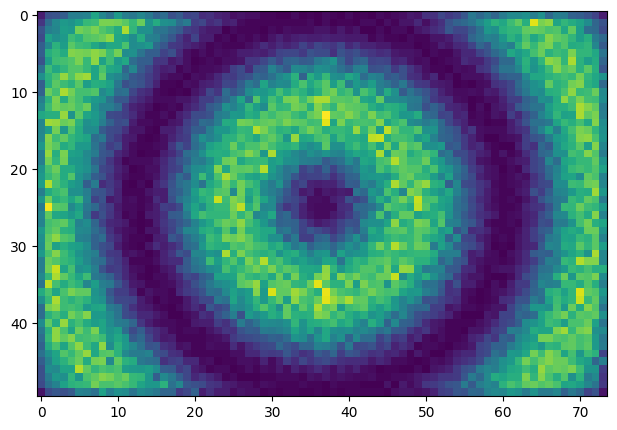
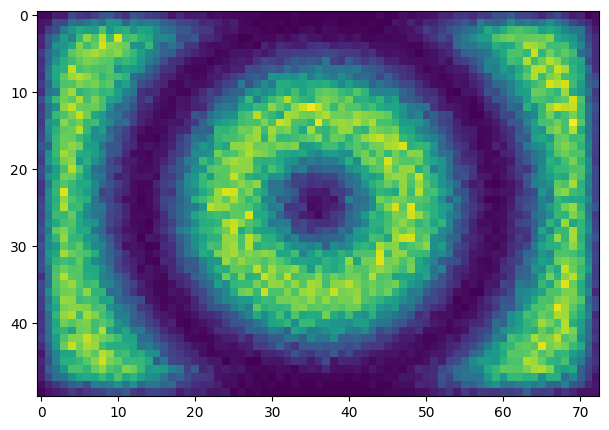
new definition of grid_size

diff --git a/HeatMap.py b/HeatMap.py
@@ -1,4 +1,5 @@
 import numpy as np
+import psutil
 
 
 def heat_map(samples: np.ndarray, grid_size=20) -> np.ndarray:
@@ -32,28 +33,43 @@ def heat_map(samples: np.ndarray, grid_size=20) -> np.ndarray:
     grid_lt[:,:,1] = np.arange(0, grid_size[0]).reshape((-1, 1)) # y 
     grid_lt[:,:,0] = np.arange(0, grid_size[1]).reshape((1, -1)) # x
     grid_rb = grid_lt.copy() + 1  # right shift and down shift by 1
-    mapped_samples = samples.copy()
+    mapped_samples = np.array(samples.copy(), dtype=np.float128)
     
     # normalize the samples' coordinations and map them to [0, grid_size]
     mapped_samples[:,0] = (
-            samples[:,0] - xmin
+            mapped_samples[:,0] - xmin
         ) / dx * grid_size[1]
     mapped_samples[:,1] = (
-            samples[:,1] - ymin
+            mapped_samples[:,1] - ymin
         ) / dy * grid_size[0]
+    
+    
+    max_mem_size = 0.9 * psutil.virtual_memory().available # Bytes
+    frame_size = grid_size[0] * grid_size[1] * mapped_samples.itemsize * 2 # Bytes
+    if frame_size > max_mem_size:
+        raise MemoryError(f"grid_size={tuple(grid_size)} is too large, cannot allocate memory for a single frame.")
 
-    # create a matrix for each sample, and combine them into an array
-    sample_mat = np.zeros([samples.shape[0], grid_size[0], grid_size[1], 2])
-    for i in range(samples.shape[0]):
-        sample_mat[i,:,:] = mapped_samples[i]
-    # (x, y) > (x0, y0) --> (x, y) is in the right-hand side of (x0, y0)
-    count_mat = (sample_mat > grid_lt) * (sample_mat <= grid_rb) # matrix of Bool type
-    count_mat = count_mat[:,:,:,0] * count_mat[:,:,:,1]  # find those with both x and y True
-    count_mat = count_mat.sum(axis=0) # count each grids
-    # make those grids with smaller y in lower rows
-    count_mat = count_mat[::-1]  
-    return count_mat
 
+    if frame_size * samples.shape[0] < max_mem_size:
+        sample_mat = np.zeros([samples.shape[0], grid_size[0], grid_size[1], 2], dtype=mapped_samples.dtype)
+        sample_mat[:,:,:] = mapped_samples.reshape([-1,1,1,2])
+        # (x, y) > (x0, y0) --> (x, y) is in the right-below side of (x0, y0)
+        count_mat = (sample_mat >= grid_lt) * (sample_mat < grid_rb) # matrix of Bool type
+        count_mat = count_mat[:,:,:,0] * count_mat[:,:,:,1]  # find those with both x and y True
+        count_mat = count_mat.sum(axis=0) # count each grids
+    else:
+        print(f"W: Sample size too large, performance will decrease")
+        count_mat = np.zeros(grid_size)
+        sample_mat = np.zeros([grid_size[0], grid_size[1], 2], dtype=mapped_samples.dtype)
+        for sample in mapped_samples:
+            sample_mat[:, :] = sample
+            bool_mat = (sample_mat >= grid_lt) * (sample_mat < grid_rb)
+            bool_mat = bool_mat[:,:,0] * bool_mat[:,:,1]
+            count_mat += bool_mat
+        
+        
+    # have those grids with smaller y in lower rows
+    return count_mat[::-1]  
 
 
 

diff --git a/demo/demo.py b/demo/demo.py
@@ -23,7 +23,7 @@ plt.savefig("./ra-heatmap.png", bbox_inches="tight")
 
 # sin(x^2+y^2)
 height, width = 50, 75
-apprx_dots_per_grid = 50
+apprx_dots_per_grid = 100
 origin = np.zeros((2, height, width))
 samples = np.array([[0, 0]])
 xy = np.zeros((2, height, width))
@@ -37,10 +37,7 @@ function_value = np.power(
 
 origin = xy
 for i in range(apprx_dots_per_grid):
-    shift = np.power(
-        2*np.random.random(size=[2, height, width]) - 1
-        , 3
-    ) * 1
+    shift = (2*np.random.random(size=[2, height, width]) - 1)*2 
     shifted = origin.copy()
     shifted[0] += shift[0] * (function_value>0)
     shifted[1] += shift[1] * (function_value>0)

diff --git a/README.md b/README.md
@@ -3,7 +3,10 @@ Python tool to transfer data points distributed in coordinations to matrix-forme
 
 Input Data: `numpy.ndarray` of coordinations `[[x,y], [x,y], .., [x,y]]`
 
-Output Data: 2D `numpy.ndarray` of add up counts, which is in a size of `grid_size * grid_size`
+Output Data: 2D `numpy.ndarray` of add up counts, which is in a size of `[H, W]`
+
+If, in coordinations of samples, `(xmax-xmin)>(ymax-ymin)`, `H=grid_size` and `W=grid_size * round((xmax-xmin)/(ymax-ymin))`. When `(xmax-xmin)<=(ymax-ymin)`, `H=grid_size * round((xmax-xmin)/(ymax-ymin))` and `W=grid_size`
+
 
 
 Demo:
